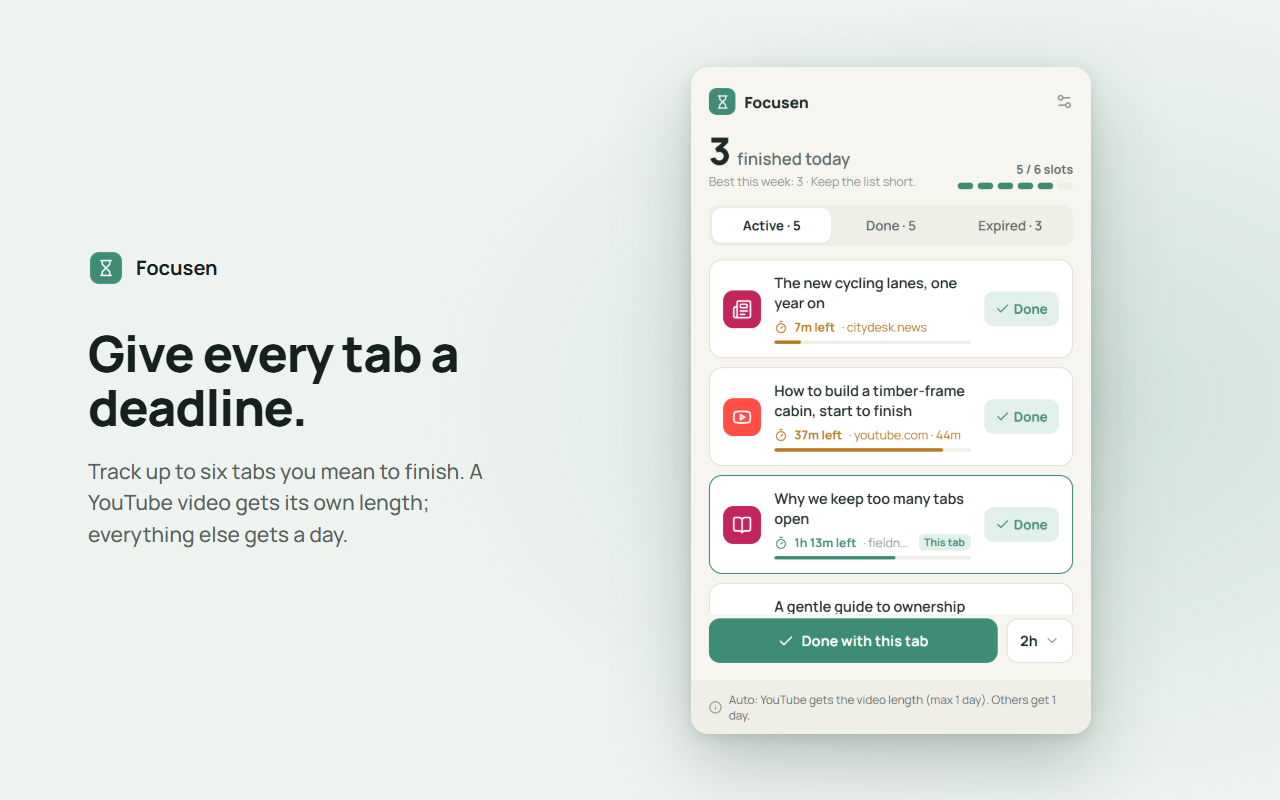
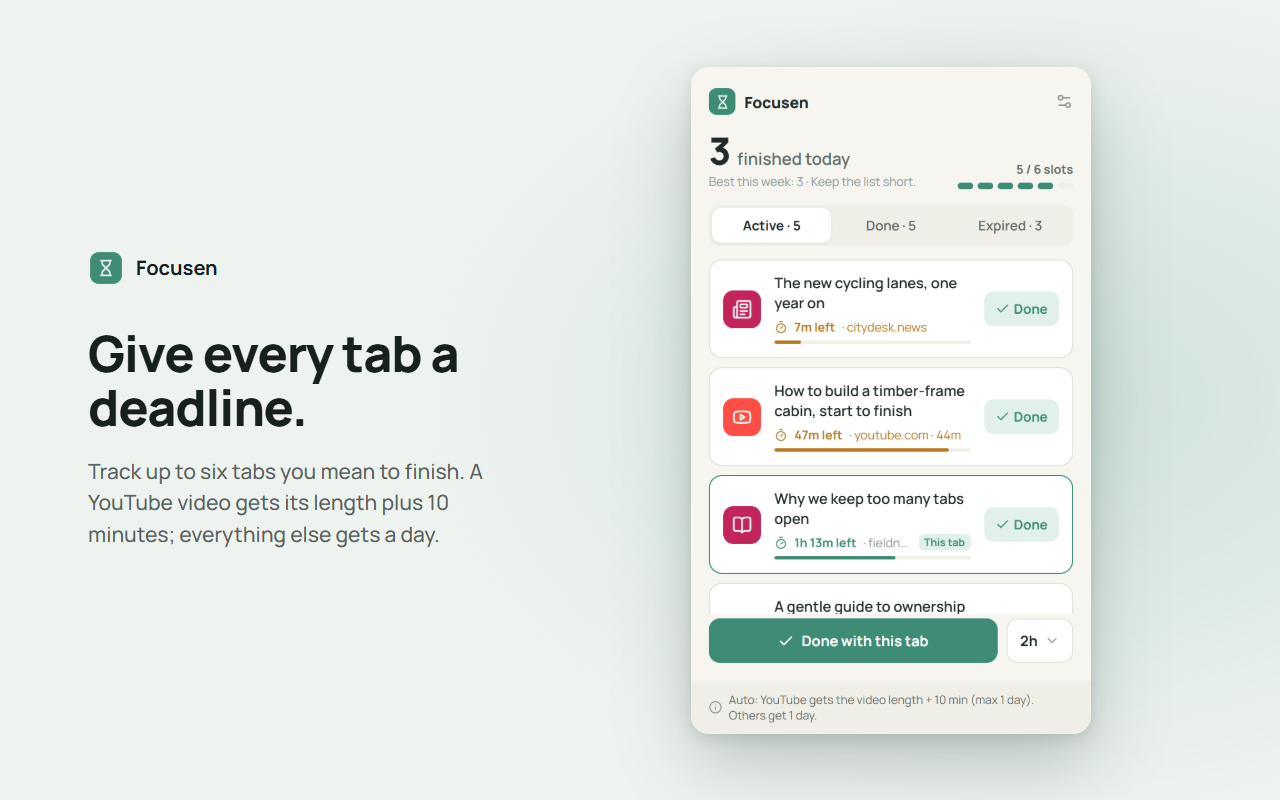
Give YouTube timers 10 extra minutes after the video ends

diff --git a/tests/deadline.test.ts b/tests/deadline.test.ts
@@ -103,9 +103,9 @@ describe('keep / defer', () => {
 });
 
 describe('applyVideo', () => {
-  it('sets the floor to now + remaining', () => {
+  it('sets the floor to now + remaining + 10 min', () => {
     const t = applyVideo(yt(), { videoId: 'abc', duration: 3120, currentTime: 120 }, T0);
-    expect(t.floor).toBe(T0 + 3000 * SEC);
+    expect(t.floor).toBe(T0 + 3000 * SEC + 10 * MIN);
   });
   it('never lowers the floor for the same video (seek forward)', () => {
     const a = applyVideo(yt(), { videoId: 'abc', duration: 3600, currentTime: 0 }, T0);
@@ -115,14 +115,18 @@ describe('applyVideo', () => {
   it('extends the floor while paused and reported later', () => {
     const a = applyVideo(yt(), { videoId: 'abc', duration: 600, currentTime: 300 }, T0);
     const b = applyVideo(a, { videoId: 'abc', duration: 600, currentTime: 300 }, T0 + 20 * MIN);
-    expect(b.floor).toBe(T0 + 20 * MIN + 300 * SEC);
+    expect(b.floor).toBe(T0 + 20 * MIN + 300 * SEC + 10 * MIN);
   });
   it('a new video (autoplay) recomputes the floor but keeps the 24h cap from the original start', () => {
     const a = applyVideo(yt(), { videoId: 'abc', duration: 600 }, T0);
     const b = applyVideo(a, { videoId: 'xyz', duration: 60 }, T0 + 23.5 * HOUR);
-    expect(b.floor).toBe(T0 + 23.5 * HOUR + 60 * SEC);
+    expect(b.floor).toBe(T0 + 23.5 * HOUR + 60 * SEC + 10 * MIN);
     const c = applyVideo(b, { videoId: 'long', duration: 7200 }, T0 + 23.5 * HOUR);
     expect(computeDeadline(c, S)).toBe(T0 + DAY);
+  });
+  it('Auto on a 2-minute video: closes 12 minutes after tracking starts', () => {
+    const t = applyVideo(yt(), { videoId: 'short', duration: 120, currentTime: 0 }, T0);
+    expect(computeDeadline(t, S)).toBe(T0 + 12 * MIN);
   });
   it('live / Shorts / unknown length clears the floor for a new video', () => {
     const a = applyVideo(yt(), { videoId: 'abc', duration: 600 }, T0);

diff --git a/src/lib/deadline.ts b/src/lib/deadline.ts
@@ -14,6 +14,8 @@ export const DAY = 24 * HOUR;
 export const LATE_MS = 3 * MIN;
 /** At most this many "it's playing / fullscreen" deferrals before closing anyway. */
 export const MAX_DEFERRALS = 6;
+/** Extra time after a video's end, for pauses, comments and finishing up. */
+export const VIDEO_BUFFER = 10 * MIN;
 
 export function isYouTubeUrl(url: string): boolean {
   try {
@@ -26,7 +28,7 @@ export function isYouTubeUrl(url: string): boolean {
 
 /**
  * deadline = min(startedAt + 24h, max(userDeadline, videoFloor)), then any "Keep +1h".
- * Auto mode: YouTube with a known length gets the video length; everything else gets the default.
+ * Auto mode: YouTube with a known length gets the video length + 10 min; everything else gets the default.
  */
 export function computeDeadline(t: Tracked, s: Settings): number {
   const cap = t.startedAt + DAY;
@@ -116,7 +118,8 @@ export function keep(t0: Tracked, s: Settings, now: number): Tracked | null {
 }
 
 /**
- * Fold a YouTube report into the record. The video floor only moves later for the same
+ * Fold a YouTube report into the record. The floor is the video's end plus VIDEO_BUFFER.
+ * It only moves later for the same
  * video (pausing or seeking back never shortens it); a new video (autoplay, playlist)
  * recomputes it, while the 24h cap stays anchored to the tab's original start.
  */
@@ -129,7 +132,7 @@ export function applyVideo(t0: Tracked, v: VideoInfo, now: number): Tracked {
     return t;
   }
   const remaining = Math.max(0, v.duration - (v.currentTime ?? 0)) * SEC;
-  const candidate = now + remaining;
+  const candidate = now + remaining + VIDEO_BUFFER;
   t.floor = sameVideo && t.floor !== undefined ? Math.max(t.floor, candidate) : candidate;
   return t;
 }

diff --git a/src/entrypoints/popup/main.ts b/src/entrypoints/popup/main.ts
@@ -238,7 +238,7 @@ function menuKeys(e: KeyboardEvent) {
 function renderHint() {
   const def = timerLabel(st!.settings.defaultMinutes, true);
   return h('div', { class: 'hint' }, icon('info', 12),
-    h('span', {}, `Auto: YouTube gets the video length (max 1 day). Others get ${def}.`));
+    h('span', {}, `Auto: YouTube gets the video length + 10 min (max 1 day). Others get ${def}.`));
 }
 
 function groupByDay(entries: LogEntry[], now: number) {

diff --git a/src/lib/types.ts b/src/lib/types.ts
@@ -1,4 +1,4 @@
-/** Timer choice: 'auto' (YouTube = video length, others = 1 day) or a number of minutes. */
+/** Timer choice: 'auto' (YouTube = video length + 10 min, others = 1 day) or a number of minutes. */
 export type TimerMode = 'auto' | number;
 
 export type SiteKind = 'video' | 'article' | 'feed' | 'news' | 'other';

diff --git a/store/listing.md b/store/listing.md
@@ -29,7 +29,7 @@ Open tabs are promises you made to yourself and never kept. Focusen gives each o
 
 HOW IT WORKS
 • Track a tab from the toolbar, the right-click menu, or Alt+Shift+K.
-• Pick a timer: 15 minutes to 1 day, or Auto. On Auto, a YouTube video gets its own length so it never closes mid-video, and any other page gets a day.
+• Pick a timer: 15 minutes to 1 day, or Auto. On Auto, a YouTube video gets its length plus 10 minutes, so it never closes mid-video, and any other page gets a day.
 • A few minutes before the deadline, a small card appears on the page (or a notification, if the tab is in the background) with Done and Keep +1h.
 • Hit Done when you've read or watched it. Finished tabs are logged, with a count for today and your best day this week.
 • Tabs that run out of time move to Expired and wait there for 7 days. Reopen one with a fresh timer, and a video picks up where you left off.
@@ -70,7 +70,7 @@ How to test:
 1. Open any web page, click the Focusen toolbar icon, choose a 15 min timer and click "Track this tab". The tab now shows a countdown badge.
 2. About 5 minutes before the deadline a card appears on the page with "Done" and "Keep +1h" (on non-YouTube sites a system notification is shown instead, unless in-page warnings are enabled in Settings).
 3. When the timer ends the tab closes and appears in the popup under "Expired", where "Reopen with new timer" brings it back once.
-4. On a YouTube video, the "Auto" timer uses the video's length.
+4. On a YouTube video, the "Auto" timer is the video's length plus 10 minutes.
 
 Permissions:
 - tabs: read the address and title of tracked tabs, find them again after a browser restart, and close or reopen them.

diff --git a/README.md b/README.md
@@ -26,7 +26,7 @@ It turns out most of those tabs didn't matter. The ones that did, you finish.
 ## How it works
 
 1. **Track a tab.** Use the popup, the right-click menu, or `Alt+Shift+K`. Choose a timer from 15 minutes to 1 day, or leave it on **Auto**.
-2. **Auto does the obvious thing.** A YouTube video gets as long as the video runs (it never closes mid-video). Any other page gets a day.
+2. **Auto does the obvious thing.** A YouTube video gets its length plus 10 minutes, so it never closes mid-video and you have time to finish up. Any other page gets a day.
 3. **You get a warning first.** A few minutes before the deadline, a small card appears on the page (or a notification, if the tab is in the background) with **Done** and **Keep +1h**.
 4. **Done is a small win.** Done tabs go into a log, with a "finished today" counter and your best day this week.
 5. **Expired isn't gone.** Tabs that run out of time wait under **Expired** for 7 days. You can reopen each one once, and a video resumes where you left off.
